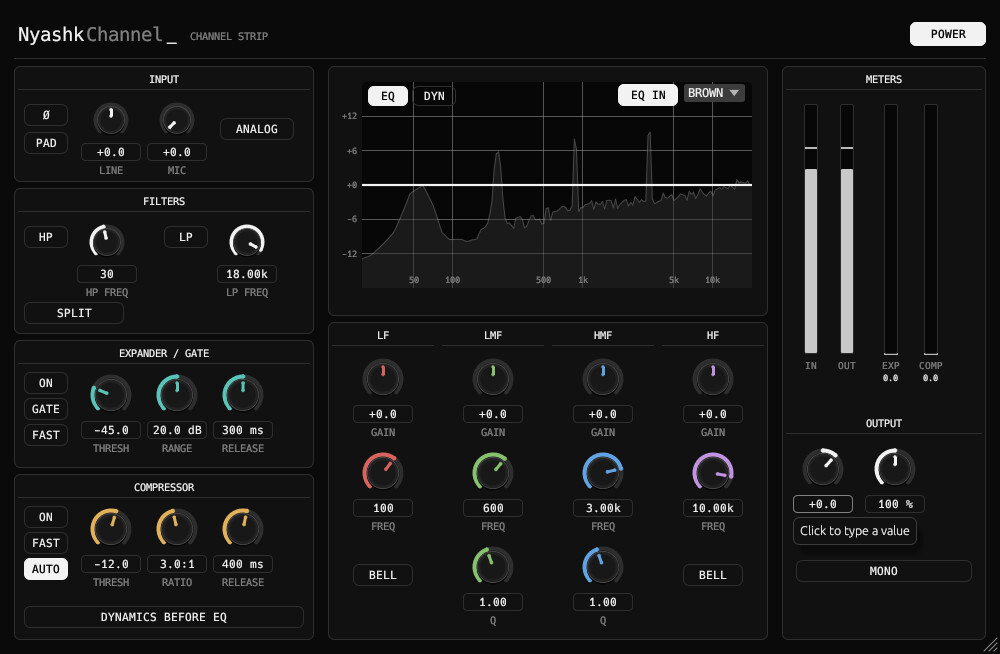
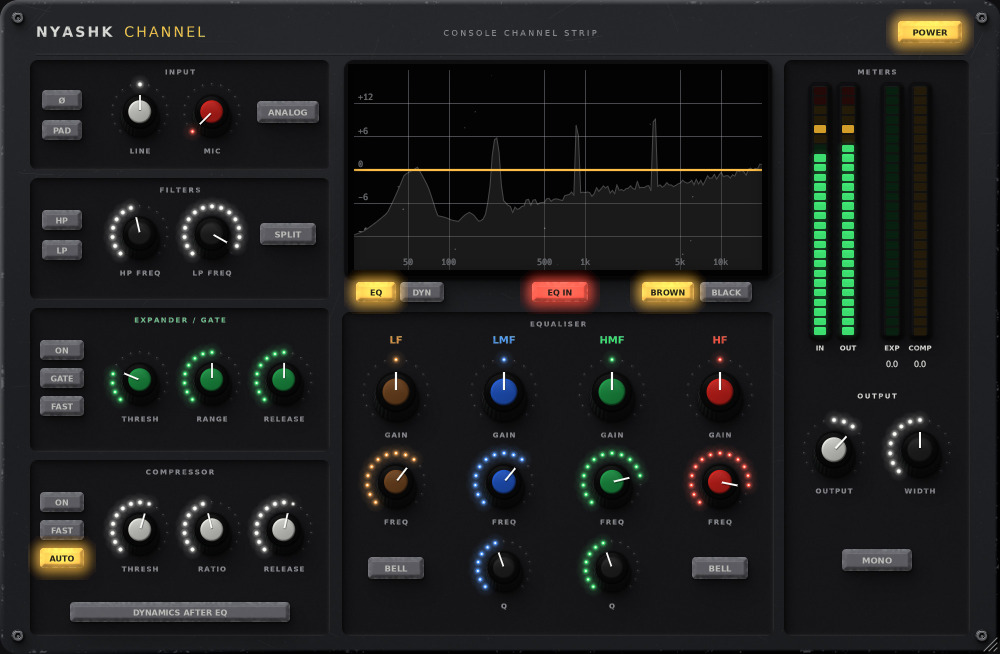
New photos and descriptions for Opto, Pre, Air, Channel [skip ci]
Claude-Session: https://claude.ai/code/session_013jKKu2jZ6gVHt6eEoTXE3F

diff --git a/src/model.rs b/src/model.rs
@@ -89,7 +89,7 @@ pub const BUILTIN: &[PluginDef] = &[
         description: "LA-2A style optical compressor with program-dependent attack, two-stage release, \
                       compress / limit modes and analog hum + saturation.",
         tags: &["VST3", "Compressor", "Dynamics"],
-        long: "A model of an optical (opto-cell) compressor in the spirit of the LA-2A. Attack is program-dependent and release is two-stage with memory, so it breathes like the hardware. Simple to use: Peak Reduction and Gain do most of the work.",
+        long: "A model of an optical (opto-cell) compressor in the spirit of the LA-2A. Attack is program-dependent and release is two-stage with memory, so it breathes like the hardware. Simple to use: Peak Reduction and Gain do most of the work. Modern analog faceplate: machined aluminium knobs with LED rings, a backlit VU with a needle under a curved cover, and lit push buttons.",
         features: &[
             "Live waveform (input / output) with the gain reduction line",
             "Peak Reduction: amount of compression; Gain: output level",
@@ -185,7 +185,7 @@ pub const BUILTIN: &[PluginDef] = &[
         tagline: "Channel strip",
         description: "SSL-style channel strip: input stage, filters, expander / gate, compressor and a 4-band EQ in one plugin.",
         tags: &["VST3", "Channel strip", "EQ", "Dynamics"],
-        long: "A complete console channel in one plugin, in the spirit of the SSL E / G channel: input section with line and mic gain, high-pass and low-pass filters, expander / gate, compressor with auto makeup, a four-band EQ (BROWN and BLACK voicing), and an output fader with width and mono.",
+        long: "A complete console channel in one plugin, in the spirit of the SSL E / G channel: input section with line and mic gain, high-pass and low-pass filters, expander / gate, compressor with auto makeup, a four-band EQ (BROWN and BLACK voicing), and an output fader with width and mono. Modern analog faceplate in the console style: colour-capped knobs with LED rings per section, lit push buttons and LED meters.",
         features: &[
             "Live output spectrum behind the EQ curve, HP / LP filters drawn on the graph",
             "DYN view: expander / gate and compressor curve with the live level",
@@ -232,7 +232,7 @@ pub const BUILTIN: &[PluginDef] = &[
         tagline: "Air / presence exciter",
         description: "Adds smooth air and presence to vocals and mixes without harshness.",
         tags: &["VST3", "Exciter", "Air"],
-        long: "An air and presence exciter in the spirit of Slate Fresh Air. Two knobs add brightness and openness in the mids and highs, with dynamic reduction so it does not get harsh, and a live curve that shows exactly what is being added.",
+        long: "An air and presence exciter in the spirit of Slate Fresh Air. Two knobs add brightness and openness in the mids and highs, with dynamic reduction so it does not get harsh, and a live curve that shows exactly what is being added. Modern analog faceplate in light anodised aluminium with machined knobs, blue LED rings and a glass curve display.",
         features: &[
             "Live spectrum of input and output behind the air curve",
             "MID AIR and HIGH AIR knobs, LINK to move them together",
@@ -253,7 +253,7 @@ pub const BUILTIN: &[PluginDef] = &[
         tagline: "Vocal preamp",
         description: "Light vocal preamp and saturator with tube, iron and clean character plus a simple tone section.",
         tags: &["VST3", "Preamp", "Saturation", "Vocal"],
-        long: "A light vocal preamp: gain and drive into three characters (tube, iron transformer, clean solid-state) followed by low cut, warmth, presence and silk. Auto level keeps loudness steady while you set the sound.",
+        long: "A light vocal preamp: gain and drive into three characters (tube, iron transformer, clean solid-state) followed by low cut, warmth, presence and silk. Auto level keeps loudness steady while you set the sound. Modern analog faceplate: a red gain knob on a metal skirt, machined knobs with LED rings, lit buttons and glass screens.",
         features: &[
             "Live spectrum behind the tone curve and a live trace on the saturation curve",
             "Gain and Drive with saturation curve display",
